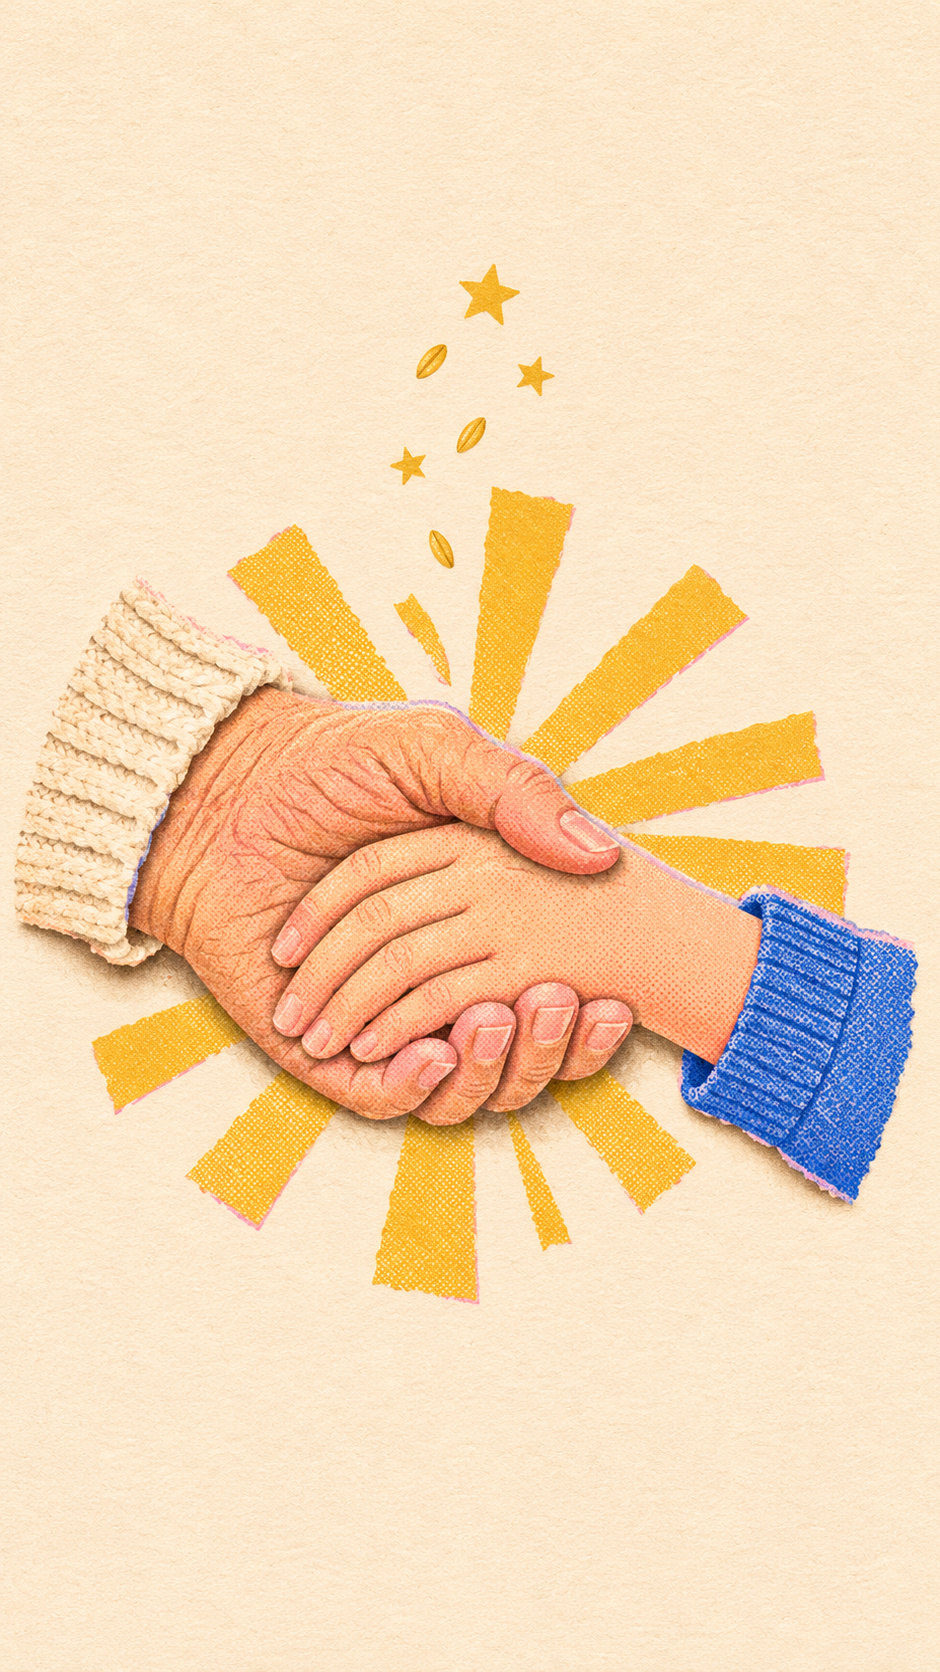
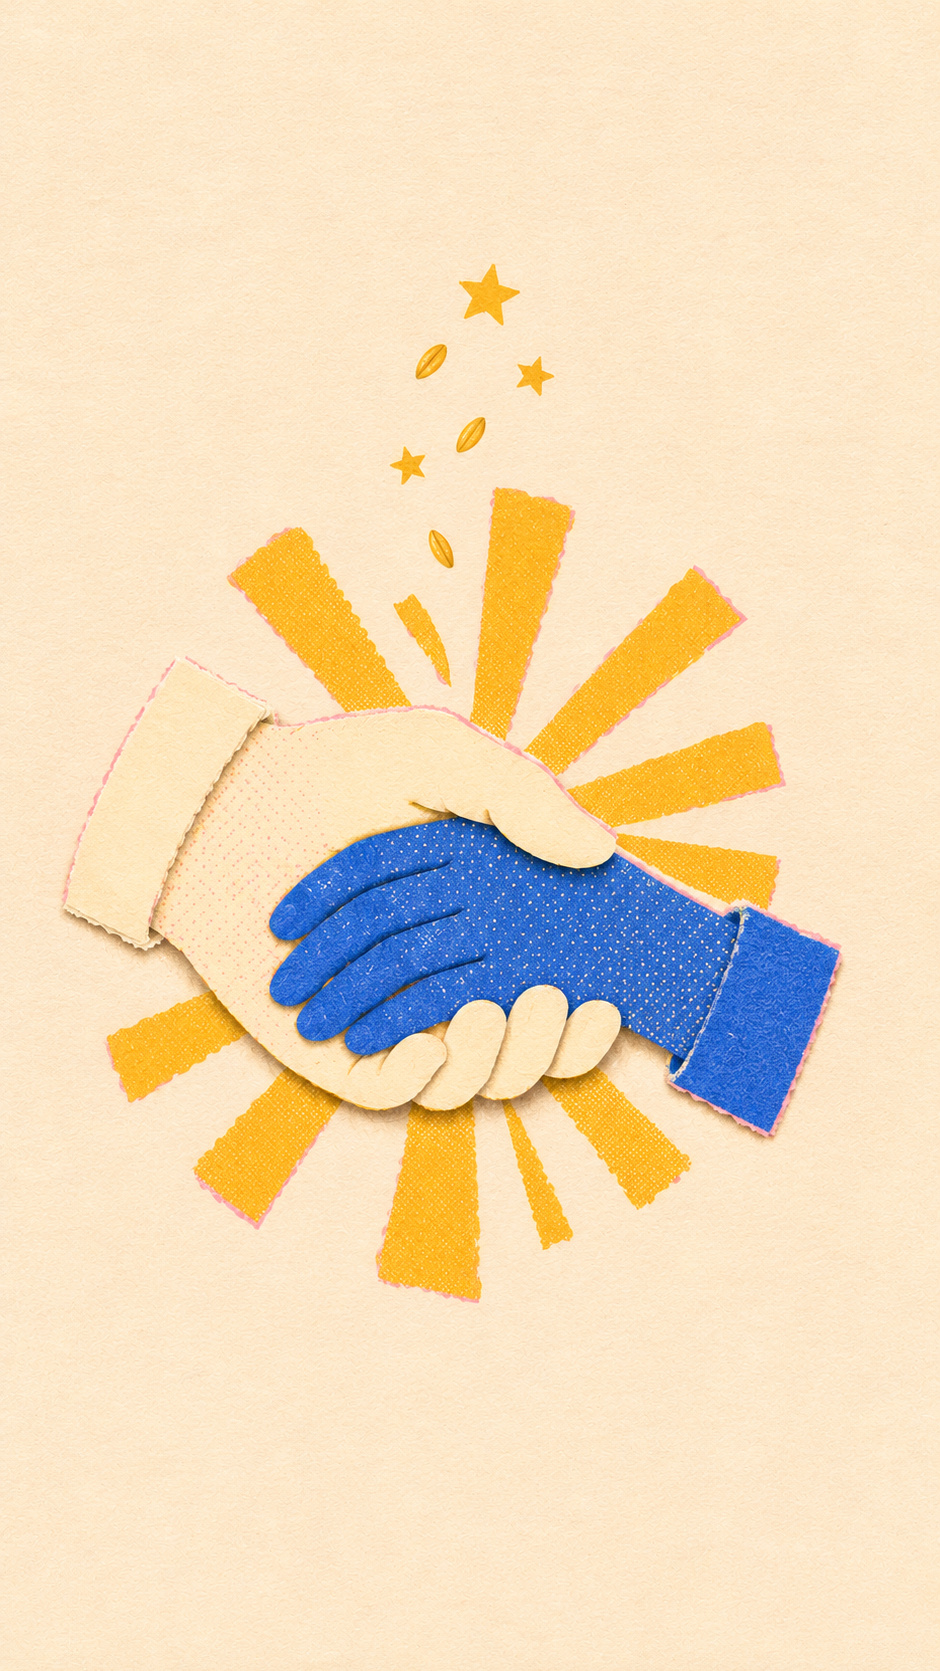
art: stage 4 — batch 10 assets and visual QA

Changed region(s): [[0.0, 0.2801, 0.9872, 0.778]]

diff --git a/toldot-video/art/STATUS.md b/toldot-video/art/STATUS.md
@@ -28,3 +28,5 @@ Batch 07: 21 generations this session. Individually reviewed: P25 approved, P26 
 Batch 08: 21 generations this session. Individually reviewed: P05 approved, P10 approved, P11 approved, P12 approved, P15 approved, P26 weak. Contact sheet saved. Production continues; no approval wait; DONE absent.
 
 Batch 09: 24 generations this session. Individually reviewed: P01 approved, P03 approved, P06 draft. Contact sheet saved. Production continues; no approval wait; DONE absent.
+
+Batch 10: 27 generations this session. Individually reviewed: P20 approved, P23 approved, P06 approved, P26 draft. Contact sheet saved. Production continues; no approval wait; DONE absent.
